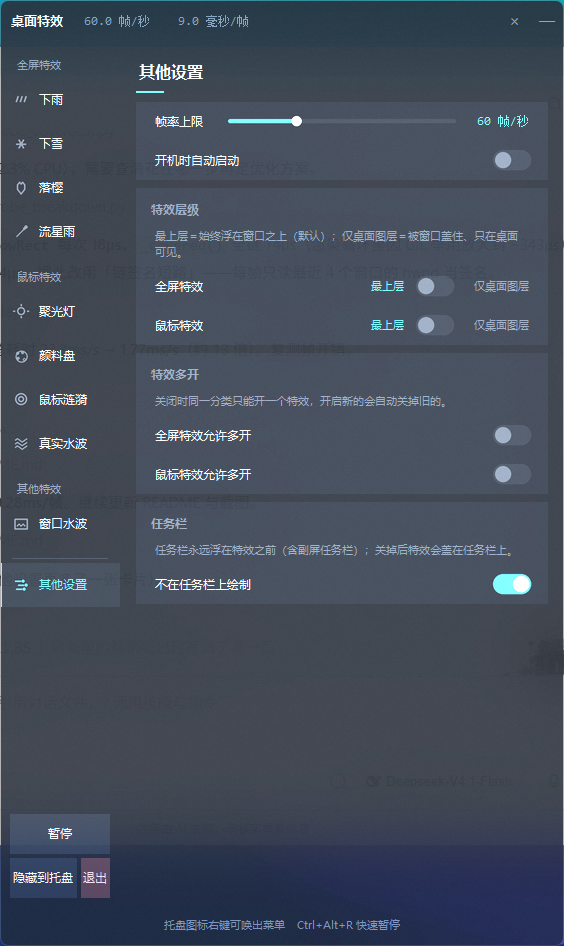
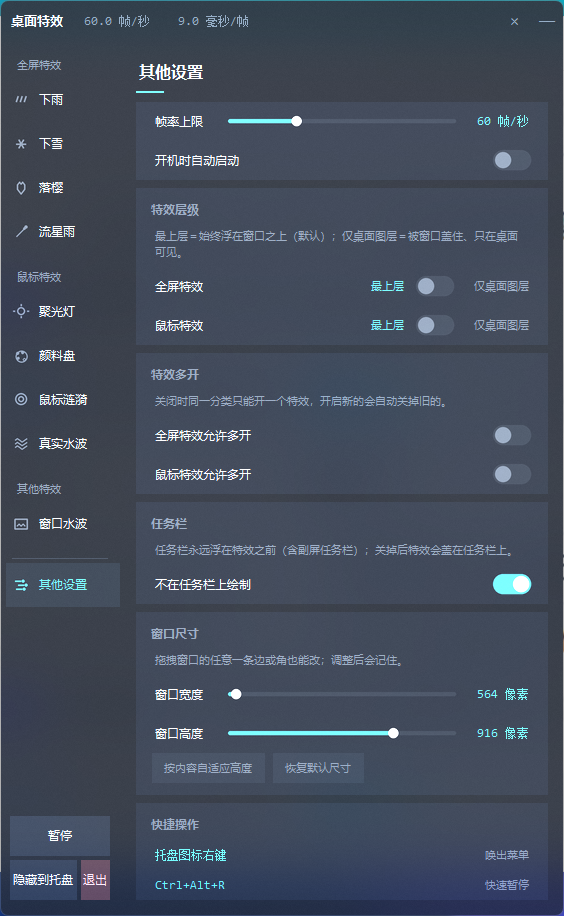
修正「窗口尺寸」数值与真实尺寸不同步，并更新面板截图
改动
- fx_ui：_fit_height() 末尾统一同步「窗口尺寸」卡片的数值。构造期那两个标签是
  按默认高度 742 建的，自适应把高度改成 916 之后标签还写着 742 —— 界面显示的
  尺寸和窗口实际尺寸对不上（重新截图时才看出来，光看代码发现不了）。
  _size_auto_h / _size_reset 里重复的同步调用随之去掉（_fit_height 已覆盖）。
- _shot_panel.py：隔离 ui_state.json（它会把"上次页面"写回用户真实文件）；
  抓图期间把 -alpha 顶到 1.0 —— 面板平时 0.97，那 3% 会把背后的窗口透进截图，
  背后恰好开着文件管理器时图里会浮出别人的文件夹列表。
- docs/images/panel-*.png：按新界面重新生成（底部提示条已移入「其他设置」，
  多出「窗口尺寸」与「快捷操作」两张卡片）。

验证
- _verify_ui_resize.py 补两组断言：自适应高度后高度滑块与数值标签都必须等于
  窗口真实高度（旧代码在这里会读到 742 != 916）；重启还原后两个标签也要对上。
- _run_all_verify.py --fast 8/8 通过（73s）。

结果
- 面板显示的窗口尺寸与实际一致；README 截图与当前界面同步且不受桌面背景干扰。

diff --git a/_verify_ui_resize.py b/_verify_ui_resize.py
@@ -297,6 +297,10 @@ def main():
           f"自适应高度不改宽度：{saved.get('win_w')} == {p.W}")
     check(p.H == p._clamp_h(max(p.H_MIN, p._content_h + p._chrome)),
           f"自适应高度 {p.H} = 内容 {p._content_h} + chrome {p._chrome}")
+    sr = p._size_rows["win_h"]
+    check(int(sr["var"].get()) == p.H and sr["label"].cget("text") == f"{p.H} 像素",
+          f"自适应后「窗口高度」显示 {sr['label'].cget('text')!r}"
+          f"（实际 {p.H}）—— 构造期它是按默认 742 建的，必须跟着改")
     p._show_page("下雨")
     p.root.update_idletasks()
     check(not p._need_scroll(), "自适应后「下雨」页无需滚动")
@@ -330,6 +334,9 @@ def main():
           f"宽度滑块同步为 {p2._size_rows['win_w']['var'].get():.0f}")
     check(int(p2._size_rows["win_h"]["var"].get()) == 666,
           f"高度滑块同步为 {p2._size_rows['win_h']['var'].get():.0f}")
+    for k, want in (("win_w", 777), ("win_h", 666)):
+        lb = p2._size_rows[k]["label"].cget("text")
+        check(lb == f"{want} 像素", f"{k} 数值标签显示 {lb!r}（期望 {want}）")
     check(p2._content_h > 0, f"内容高度已测出：{p2._content_h}")
     _close(p2)
 
@@ -343,6 +350,11 @@ def main():
     check(p3.W == p3.W_DEF, f"默认宽度 {p3.W}（期望 {p3.W_DEF}）")
     check(p3.H == expect_h,
           f"默认高度按内容自适应 {p3.H}（期望 {expect_h}）")
+    sr = p3._size_rows["win_h"]
+    check(int(sr["var"].get()) == p3.H,
+          f"自适应后高度滑块 {sr['var'].get():.0f} == 实际 {p3.H}")
+    check(sr["label"].cget("text") == f"{p3.H} 像素",
+          f"自适应后高度标签 {sr['label'].cget('text')!r} == {p3.H} 像素")
     check(p3.root.winfo_height() >= p3._content_h,
           f"窗口装得下最长页：{p3.root.winfo_height()} >= {p3._content_h}")
     try:

diff --git a/_shot_panel.py b/_shot_panel.py
@@ -9,8 +9,10 @@
     python _shot_panel.py            # 生成 panel-rain / panel-other / panel-paint
 """
 import ctypes
+import os
 import queue
 import sys
+import tempfile
 import time
 from pathlib import Path
 
@@ -22,6 +24,11 @@ import fx_ui                    # noqa: E402
 import _shot                    # noqa: E402
 
 OUT_DIR = ROOT / "docs" / "images"
+
+# 隔离 UI 状态：_show_page 会把"上次停留的页面"写回 ui_state.json，那是用户
+# 真实在用的文件（里面还记着他调好的窗口尺寸）。截图工具不该改用户的设置。
+fx_ui._UI_STATE_PATH = os.path.join(tempfile.mkdtemp(prefix="fx_shot_"),
+                                    "ui_state.json")
 
 
 class _StubApp:
@@ -107,8 +114,18 @@ def _shoot(panel, page, out):
     panel.root.update()
     time.sleep(0.7)          # 等 DWM 圆角/亚克力画完，否则抓到方角
     panel.root.update()
-    grab(panel.root.winfo_x(), panel.root.winfo_y(),
-         panel.root.winfo_width(), panel.root.winfo_height(), out)
+    # 抓图期间把整体不透明度顶到 1.0：面板平时是 0.97（Tk 用分层窗实现），
+    # 那 3% 会把**背后的窗口**透进截图 —— 背后恰好开着文件管理器时，README
+    # 图里就会浮出别人的文件夹列表。截图要的是面板本身，不是当时的桌面。
+    panel.root.attributes("-alpha", 1.0)
+    panel.root.update()
+    time.sleep(0.15)
+    try:
+        grab(panel.root.winfo_x(), panel.root.winfo_y(),
+             panel.root.winfo_width(), panel.root.winfo_height(), out)
+    finally:
+        panel.root.attributes("-alpha", 0.97)
+        panel.root.update()
 
 
 def main():

diff --git a/fx_ui.py b/fx_ui.py
@@ -723,8 +723,7 @@ class ControlPanel:
         self._user_w = int(self.W)
         self._ui["win_w"] = self._user_w
         self._save_ui_state()
-        self._fit_height()
-        self._sync_size_rows()
+        self._fit_height()      # 内部会同步「窗口尺寸」的数值标签
 
     def _size_reset(self):
         """两个方向都回到默认：宽度用默认值，高度按内容自适应。"""
@@ -733,8 +732,7 @@ class ControlPanel:
         self._ui.pop("win_h", None)
         self.W, self.H = self.W_DEF, self.H_DEF
         self._save_ui_state()
-        self._fit_height()
-        self._sync_size_rows()
+        self._fit_height()      # 内部会同步「窗口尺寸」的数值标签
 
     def _hwnd(self):
         """面板真正的顶层 hwnd。
@@ -1089,6 +1087,10 @@ class ControlPanel:
         # 恢复当前页（pack fill + 复位滚动）；滚动区交给 <Configure> 绑定自愈，
         # 此处不再 flush。
         self._show_page(self._active)
+        # 「窗口尺寸」卡片里的数值必须反映**真实**尺寸。构造期它是按 H_DEF
+        # (742) 建的，自适应之后 H 变成按内容算出的值（例如 916）—— 不在这里
+        # 同步，标签就永远停在 742，和窗口实际高度对不上。
+        self._sync_size_rows()
 
     def _show_page(self, name):
         for n, f in self._pages.items():
